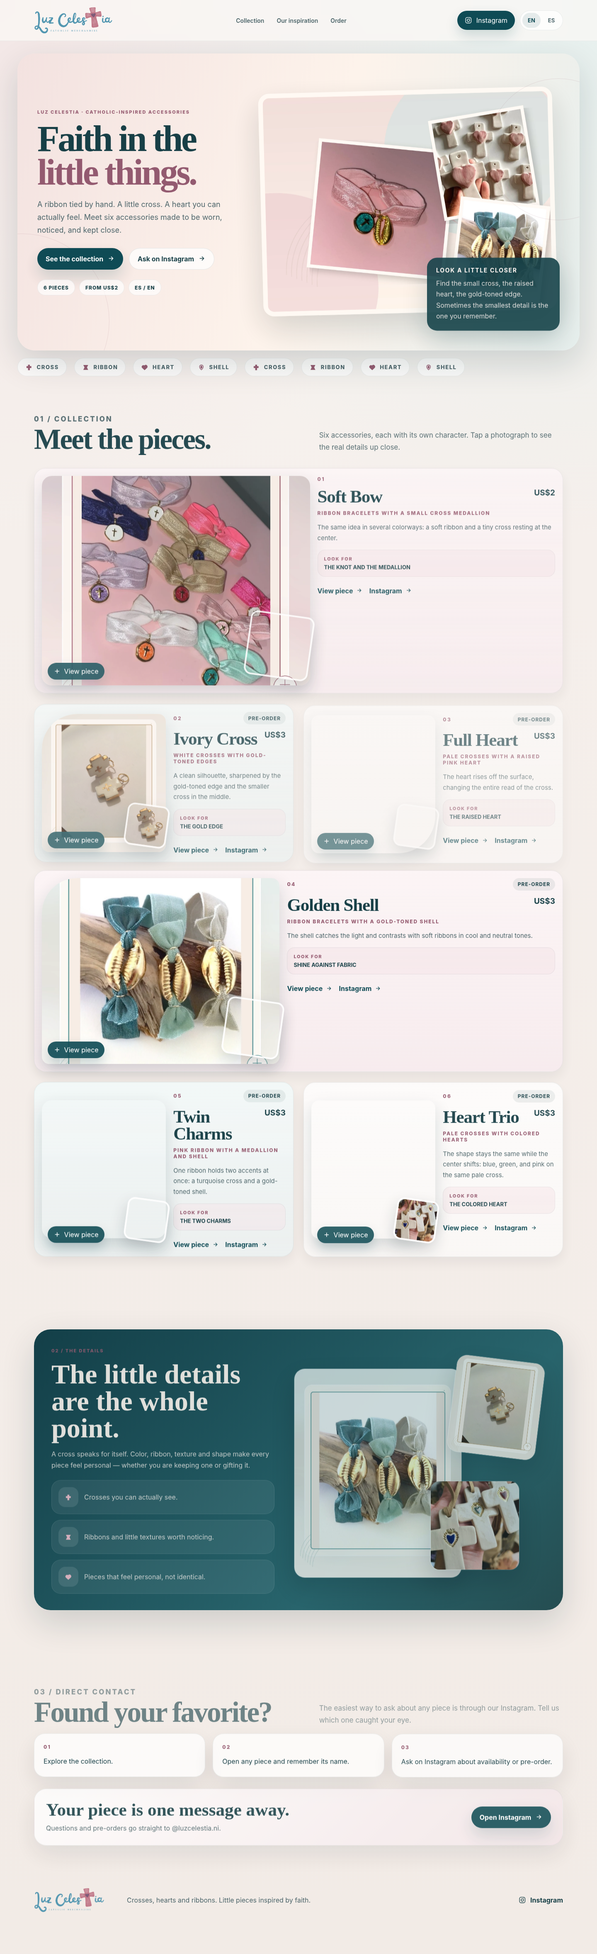
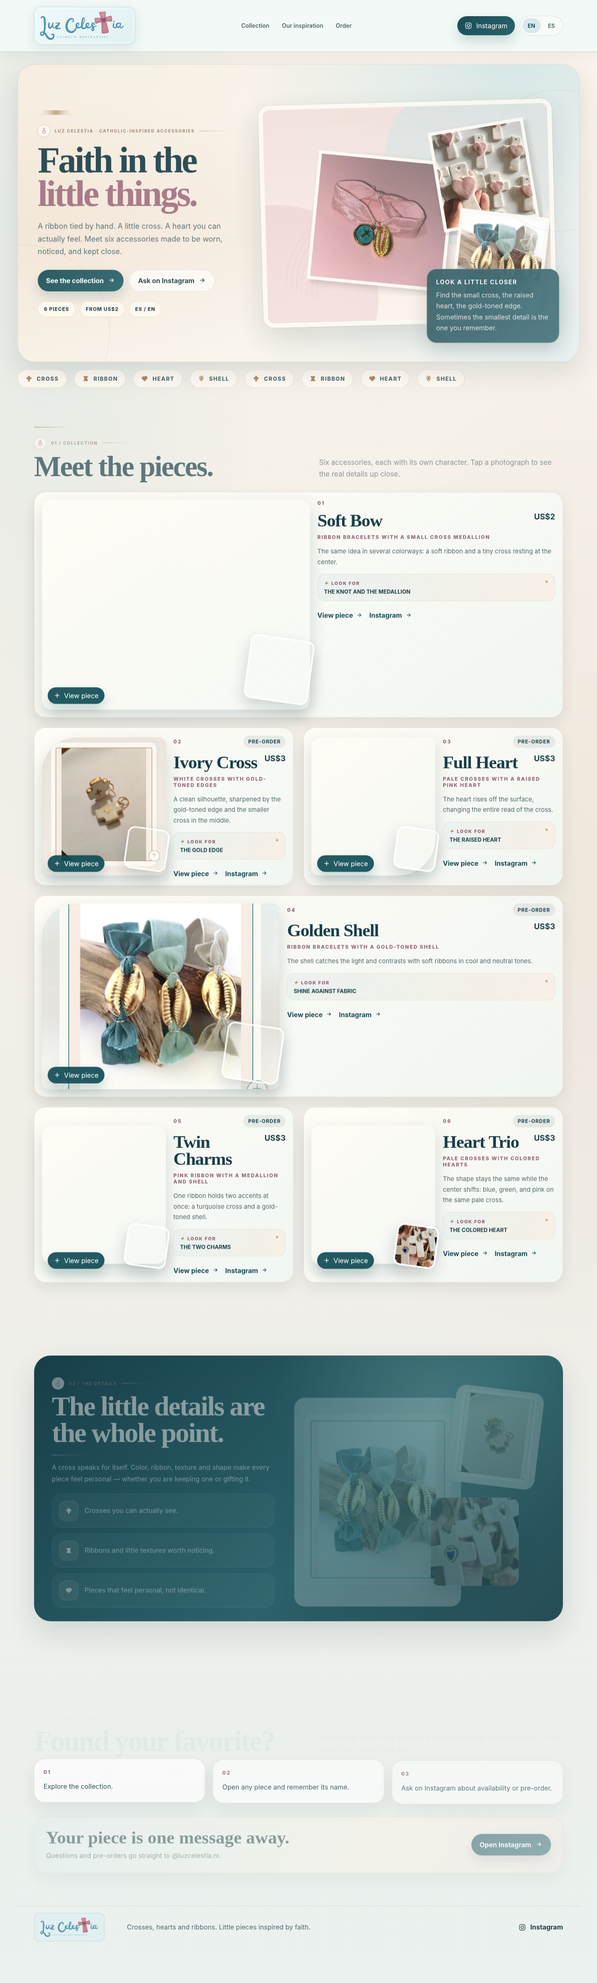
prueba

diff --git a/dist/es/index.html b/dist/es/index.html
@@ -37,7 +37,7 @@
   <section class="hero">
     <div class="hero-grid">
       <div class="hero-copy" data-reveal>
-        <p class="eyebrow">LUZ CELESTIA · ACCESORIOS DE INSPIRACIÓN CATÓLICA</p>
+        <div class="section-kicker"><span class="celestia-signet" aria-hidden="true"><svg viewBox="0 0 24 24" fill="none" stroke="currentColor" stroke-width="1.45" stroke-linecap="round" stroke-linejoin="round"><path d="M12 2v12M8 6h8"/><path d="M12 21s-5.5-3.1-5.5-6.3A3.1 3.1 0 0 1 12 12.9a3.1 3.1 0 0 1 5.5 1.8C17.5 17.9 12 21 12 21Z"/></svg></span><span>LUZ CELESTIA · ACCESORIOS DE INSPIRACIÓN CATÓLICA</span></div>
         <h1><span>La fe también</span><em>está en los detalles.</em></h1>
         <p class="hero-body">Un listón anudado. Una cruz pequeña. Un corazón que se siente al tocarlo. Conocé seis accesorios para llevar cerquita o regalar con intención.</p>
         <div class="hero-buttons">
@@ -74,7 +74,7 @@
   <section class="collection" id="collection">
     <div class="section-head" data-reveal>
       <div>
-        <p class="eyebrow">01 / colección</p>
+        <div class="section-kicker"><span class="celestia-signet" aria-hidden="true"><svg viewBox="0 0 24 24" fill="none" stroke="currentColor" stroke-width="1.45" stroke-linecap="round" stroke-linejoin="round"><path d="M12 2v12M8 6h8"/><path d="M12 21s-5.5-3.1-5.5-6.3A3.1 3.1 0 0 1 12 12.9a3.1 3.1 0 0 1 5.5 1.8C17.5 17.9 12 21 12 21Z"/></svg></span><span>01 / colección</span></div>
         <h2>Conocé las piezas.</h2>
       </div>
       <p>Seis accesorios y seis maneras de expresar algo personal. Tocá cualquier fotografía para ver sus detalles reales de cerca.</p>
@@ -101,7 +101,7 @@
         </div>
         <p class="piece-literal">Pulseras de listón con medallita de cruz</p>
         <p class="piece-desc">Una misma idea en varios colores: listón suave y una cruz pequeña al centro de la caída.</p>
-        <div class="piece-focus"><span>FIJATE EN</span><b>EL NUDO Y LA MEDALLA</b></div>
+        <div class="piece-focus"><span><i class="detail-spark" aria-hidden="true">✦</i>FIJATE EN</span><b>EL NUDO Y LA MEDALLA</b></div>
         <div class="piece-links">
           <button type="button" class="inline-link" data-open="0">Ver pieza <svg viewBox="0 0 24 24" aria-hidden="true"><path d="M5 12h11.17l-4.59 4.59L13 18l7-7-7-7-1.42 1.41L16.17 10H5v2Z" fill="currentColor"/></svg></button>
           <a class="inline-link" href="https://www.instagram.com/luzcelestia.ni/" target="_blank" rel="noopener noreferrer">Instagram <svg viewBox="0 0 24 24" aria-hidden="true"><path d="M5 12h11.17l-4.59 4.59L13 18l7-7-7-7-1.42 1.41L16.17 10H5v2Z" fill="currentColor"/></svg></a>
@@ -129,7 +129,7 @@
         </div>
         <p class="piece-literal">Cruces blancas con borde dorado</p>
         <p class="piece-desc">La silueta es limpia; el borde dorado y la cruz pequeña le dan firmeza.</p>
-        <div class="piece-focus"><span>FIJATE EN</span><b>EL BORDE DORADO</b></div>
+        <div class="piece-focus"><span><i class="detail-spark" aria-hidden="true">✦</i>FIJATE EN</span><b>EL BORDE DORADO</b></div>
         <div class="piece-links">
           <button type="button" class="inline-link" data-open="1">Ver pieza <svg viewBox="0 0 24 24" aria-hidden="true"><path d="M5 12h11.17l-4.59 4.59L13 18l7-7-7-7-1.42 1.41L16.17 10H5v2Z" fill="currentColor"/></svg></button>
           <a class="inline-link" href="https://www.instagram.com/luzcelestia.ni/" target="_blank" rel="noopener noreferrer">Instagram <svg viewBox="0 0 24 24" aria-hidden="true"><path d="M5 12h11.17l-4.59 4.59L13 18l7-7-7-7-1.42 1.41L16.17 10H5v2Z" fill="currentColor"/></svg></a>
@@ -157,7 +157,7 @@
         </div>
         <p class="piece-literal">Cruces claras con corazón rosado en relieve</p>
         <p class="piece-desc">El corazón se levanta de la superficie y cambia por completo la lectura de la cruz.</p>
-        <div class="piece-focus"><span>FIJATE EN</span><b>EL RELIEVE ROSADO</b></div>
+        <div class="piece-focus"><span><i class="detail-spark" aria-hidden="true">✦</i>FIJATE EN</span><b>EL RELIEVE ROSADO</b></div>
         <div class="piece-links">
           <button type="button" class="inline-link" data-open="2">Ver pieza <svg viewBox="0 0 24 24" aria-hidden="true"><path d="M5 12h11.17l-4.59 4.59L13 18l7-7-7-7-1.42 1.41L16.17 10H5v2Z" fill="currentColor"/></svg></button>
           <a class="inline-link" href="https://www.instagram.com/luzcelestia.ni/" target="_blank" rel="noopener noreferrer">Instagram <svg viewBox="0 0 24 24" aria-hidden="true"><path d="M5 12h11.17l-4.59 4.59L13 18l7-7-7-7-1.42 1.41L16.17 10H5v2Z" fill="currentColor"/></svg></a>
@@ -185,7 +185,7 @@
         </div>
         <p class="piece-literal">Pulseras de listón con concha dorada</p>
         <p class="piece-desc">La concha metálica toma la luz y contrasta con listones suaves en tonos fríos y neutros.</p>
-        <div class="piece-focus"><span>FIJATE EN</span><b>BRILLO SOBRE TELA</b></div>
+        <div class="piece-focus"><span><i class="detail-spark" aria-hidden="true">✦</i>FIJATE EN</span><b>BRILLO SOBRE TELA</b></div>
         <div class="piece-links">
           <button type="button" class="inline-link" data-open="3">Ver pieza <svg viewBox="0 0 24 24" aria-hidden="true"><path d="M5 12h11.17l-4.59 4.59L13 18l7-7-7-7-1.42 1.41L16.17 10H5v2Z" fill="currentColor"/></svg></button>
           <a class="inline-link" href="https://www.instagram.com/luzcelestia.ni/" target="_blank" rel="noopener noreferrer">Instagram <svg viewBox="0 0 24 24" aria-hidden="true"><path d="M5 12h11.17l-4.59 4.59L13 18l7-7-7-7-1.42 1.41L16.17 10H5v2Z" fill="currentColor"/></svg></a>
@@ -213,7 +213,7 @@
         </div>
         <p class="piece-literal">Pulsera rosada con medallita y concha</p>
         <p class="piece-desc">Una sola cinta sostiene dos acentos distintos: cruz turquesa y concha dorada.</p>
-        <div class="piece-focus"><span>FIJATE EN</span><b>LOS DOS DIJES</b></div>
+        <div class="piece-focus"><span><i class="detail-spark" aria-hidden="true">✦</i>FIJATE EN</span><b>LOS DOS DIJES</b></div>
         <div class="piece-links">
           <button type="button" class="inline-link" data-open="4">Ver pieza <svg viewBox="0 0 24 24" aria-hidden="true"><path d="M5 12h11.17l-4.59 4.59L13 18l7-7-7-7-1.42 1.41L16.17 10H5v2Z" fill="currentColor"/></svg></button>
           <a class="inline-link" href="https://www.instagram.com/luzcelestia.ni/" target="_blank" rel="noopener noreferrer">Instagram <svg viewBox="0 0 24 24" aria-hidden="true"><path d="M5 12h11.17l-4.59 4.59L13 18l7-7-7-7-1.42 1.41L16.17 10H5v2Z" fill="currentColor"/></svg></a>
@@ -241,7 +241,7 @@
         </div>
         <p class="piece-literal">Cruces claras con corazones de colores</p>
         <p class="piece-desc">La forma se repite, pero cambia el centro: azul, verde y rosado sobre la misma cruz clara.</p>
-        <div class="piece-focus"><span>FIJATE EN</span><b>EL CORAZÓN DE COLOR</b></div>
+        <div class="piece-focus"><span><i class="detail-spark" aria-hidden="true">✦</i>FIJATE EN</span><b>EL CORAZÓN DE COLOR</b></div>
         <div class="piece-links">
           <button type="button" class="inline-link" data-open="5">Ver pieza <svg viewBox="0 0 24 24" aria-hidden="true"><path d="M5 12h11.17l-4.59 4.59L13 18l7-7-7-7-1.42 1.41L16.17 10H5v2Z" fill="currentColor"/></svg></button>
           <a class="inline-link" href="https://www.instagram.com/luzcelestia.ni/" target="_blank" rel="noopener noreferrer">Instagram <svg viewBox="0 0 24 24" aria-hidden="true"><path d="M5 12h11.17l-4.59 4.59L13 18l7-7-7-7-1.42 1.41L16.17 10H5v2Z" fill="currentColor"/></svg></a>
@@ -253,7 +253,7 @@
   <section class="focus-section" id="focus">
     <div class="focus-layout">
       <div class="focus-panel" data-reveal>
-        <p class="eyebrow">02 / LOS DETALLES</p>
+        <div class="section-kicker"><span class="celestia-signet" aria-hidden="true"><svg viewBox="0 0 24 24" fill="none" stroke="currentColor" stroke-width="1.45" stroke-linecap="round" stroke-linejoin="round"><path d="M12 2v12M8 6h8"/><path d="M12 21s-5.5-3.1-5.5-6.3A3.1 3.1 0 0 1 12 12.9a3.1 3.1 0 0 1 5.5 1.8C17.5 17.9 12 21 12 21Z"/></svg></span><span>02 / LOS DETALLES</span></div>
         <h2>Los detalles chiquitos hacen toda la diferencia.</h2>
         <p>La cruz tiene su propio significado. El color, el listón, las texturas y las formas hacen que cada pieza se sienta personal, para llevar o regalar.</p>
         <div class="focus-points">
@@ -273,7 +273,7 @@
   <section class="order" id="order">
     <div class="section-head section-head-order" data-reveal>
       <div>
-        <p class="eyebrow">03 / contacto directo</p>
+        <div class="section-kicker"><span class="celestia-signet" aria-hidden="true"><svg viewBox="0 0 24 24" fill="none" stroke="currentColor" stroke-width="1.45" stroke-linecap="round" stroke-linejoin="round"><path d="M12 2v12M8 6h8"/><path d="M12 21s-5.5-3.1-5.5-6.3A3.1 3.1 0 0 1 12 12.9a3.1 3.1 0 0 1 5.5 1.8C17.5 17.9 12 21 12 21Z"/></svg></span><span>03 / contacto directo</span></div>
         <h2>¿Ya encontraste tu favorita?</h2>
       </div>
       <p>Si alguna pieza te gustó, escribinos por Instagram y contanos cuál. Así de sencillo.</p>

diff --git a/dist/en/index.html b/dist/en/index.html
@@ -37,7 +37,7 @@
   <section class="hero">
     <div class="hero-grid">
       <div class="hero-copy" data-reveal>
-        <p class="eyebrow">LUZ CELESTIA · CATHOLIC-INSPIRED ACCESSORIES</p>
+        <div class="section-kicker"><span class="celestia-signet" aria-hidden="true"><svg viewBox="0 0 24 24" fill="none" stroke="currentColor" stroke-width="1.45" stroke-linecap="round" stroke-linejoin="round"><path d="M12 2v12M8 6h8"/><path d="M12 21s-5.5-3.1-5.5-6.3A3.1 3.1 0 0 1 12 12.9a3.1 3.1 0 0 1 5.5 1.8C17.5 17.9 12 21 12 21Z"/></svg></span><span>LUZ CELESTIA · CATHOLIC-INSPIRED ACCESSORIES</span></div>
         <h1><span>Faith in the</span><em>little things.</em></h1>
         <p class="hero-body">A ribbon tied by hand. A little cross. A heart you can actually feel. Meet six accessories made to be worn, noticed, and kept close.</p>
         <div class="hero-buttons">
@@ -74,7 +74,7 @@
   <section class="collection" id="collection">
     <div class="section-head" data-reveal>
       <div>
-        <p class="eyebrow">01 / collection</p>
+        <div class="section-kicker"><span class="celestia-signet" aria-hidden="true"><svg viewBox="0 0 24 24" fill="none" stroke="currentColor" stroke-width="1.45" stroke-linecap="round" stroke-linejoin="round"><path d="M12 2v12M8 6h8"/><path d="M12 21s-5.5-3.1-5.5-6.3A3.1 3.1 0 0 1 12 12.9a3.1 3.1 0 0 1 5.5 1.8C17.5 17.9 12 21 12 21Z"/></svg></span><span>01 / collection</span></div>
         <h2>Meet the pieces.</h2>
       </div>
       <p>Six accessories, each with its own character. Tap a photograph to see the real details up close.</p>
@@ -101,7 +101,7 @@
         </div>
         <p class="piece-literal">Ribbon bracelets with a small cross medallion</p>
         <p class="piece-desc">The same idea in several colorways: a soft ribbon and a tiny cross resting at the center.</p>
-        <div class="piece-focus"><span>LOOK FOR</span><b>THE KNOT AND THE MEDALLION</b></div>
+        <div class="piece-focus"><span><i class="detail-spark" aria-hidden="true">✦</i>LOOK FOR</span><b>THE KNOT AND THE MEDALLION</b></div>
         <div class="piece-links">
           <button type="button" class="inline-link" data-open="0">View piece <svg viewBox="0 0 24 24" aria-hidden="true"><path d="M5 12h11.17l-4.59 4.59L13 18l7-7-7-7-1.42 1.41L16.17 10H5v2Z" fill="currentColor"/></svg></button>
           <a class="inline-link" href="https://www.instagram.com/luzcelestia.ni/" target="_blank" rel="noopener noreferrer">Instagram <svg viewBox="0 0 24 24" aria-hidden="true"><path d="M5 12h11.17l-4.59 4.59L13 18l7-7-7-7-1.42 1.41L16.17 10H5v2Z" fill="currentColor"/></svg></a>
@@ -129,7 +129,7 @@
         </div>
         <p class="piece-literal">White crosses with gold-toned edges</p>
         <p class="piece-desc">A clean silhouette, sharpened by the gold-toned edge and the smaller cross in the middle.</p>
-        <div class="piece-focus"><span>LOOK FOR</span><b>THE GOLD EDGE</b></div>
+        <div class="piece-focus"><span><i class="detail-spark" aria-hidden="true">✦</i>LOOK FOR</span><b>THE GOLD EDGE</b></div>
         <div class="piece-links">
           <button type="button" class="inline-link" data-open="1">View piece <svg viewBox="0 0 24 24" aria-hidden="true"><path d="M5 12h11.17l-4.59 4.59L13 18l7-7-7-7-1.42 1.41L16.17 10H5v2Z" fill="currentColor"/></svg></button>
           <a class="inline-link" href="https://www.instagram.com/luzcelestia.ni/" target="_blank" rel="noopener noreferrer">Instagram <svg viewBox="0 0 24 24" aria-hidden="true"><path d="M5 12h11.17l-4.59 4.59L13 18l7-7-7-7-1.42 1.41L16.17 10H5v2Z" fill="currentColor"/></svg></a>
@@ -157,7 +157,7 @@
         </div>
         <p class="piece-literal">Pale crosses with a raised pink heart</p>
         <p class="piece-desc">The heart rises off the surface, changing the entire read of the cross.</p>
-        <div class="piece-focus"><span>LOOK FOR</span><b>THE RAISED HEART</b></div>
+        <div class="piece-focus"><span><i class="detail-spark" aria-hidden="true">✦</i>LOOK FOR</span><b>THE RAISED HEART</b></div>
         <div class="piece-links">
           <button type="button" class="inline-link" data-open="2">View piece <svg viewBox="0 0 24 24" aria-hidden="true"><path d="M5 12h11.17l-4.59 4.59L13 18l7-7-7-7-1.42 1.41L16.17 10H5v2Z" fill="currentColor"/></svg></button>
           <a class="inline-link" href="https://www.instagram.com/luzcelestia.ni/" target="_blank" rel="noopener noreferrer">Instagram <svg viewBox="0 0 24 24" aria-hidden="true"><path d="M5 12h11.17l-4.59 4.59L13 18l7-7-7-7-1.42 1.41L16.17 10H5v2Z" fill="currentColor"/></svg></a>
@@ -185,7 +185,7 @@
         </div>
         <p class="piece-literal">Ribbon bracelets with a gold-toned shell</p>
         <p class="piece-desc">The shell catches the light and contrasts with soft ribbons in cool and neutral tones.</p>
-        <div class="piece-focus"><span>LOOK FOR</span><b>SHINE AGAINST FABRIC</b></div>
+        <div class="piece-focus"><span><i class="detail-spark" aria-hidden="true">✦</i>LOOK FOR</span><b>SHINE AGAINST FABRIC</b></div>
         <div class="piece-links">
           <button type="button" class="inline-link" data-open="3">View piece <svg viewBox="0 0 24 24" aria-hidden="true"><path d="M5 12h11.17l-4.59 4.59L13 18l7-7-7-7-1.42 1.41L16.17 10H5v2Z" fill="currentColor"/></svg></button>
           <a class="inline-link" href="https://www.instagram.com/luzcelestia.ni/" target="_blank" rel="noopener noreferrer">Instagram <svg viewBox="0 0 24 24" aria-hidden="true"><path d="M5 12h11.17l-4.59 4.59L13 18l7-7-7-7-1.42 1.41L16.17 10H5v2Z" fill="currentColor"/></svg></a>
@@ -213,7 +213,7 @@
         </div>
         <p class="piece-literal">Pink ribbon with a medallion and shell</p>
         <p class="piece-desc">One ribbon holds two accents at once: a turquoise cross and a gold-toned shell.</p>
-        <div class="piece-focus"><span>LOOK FOR</span><b>THE TWO CHARMS</b></div>
+        <div class="piece-focus"><span><i class="detail-spark" aria-hidden="true">✦</i>LOOK FOR</span><b>THE TWO CHARMS</b></div>
         <div class="piece-links">
           <button type="button" class="inline-link" data-open="4">View piece <svg viewBox="0 0 24 24" aria-hidden="true"><path d="M5 12h11.17l-4.59 4.59L13 18l7-7-7-7-1.42 1.41L16.17 10H5v2Z" fill="currentColor"/></svg></button>
           <a class="inline-link" href="https://www.instagram.com/luzcelestia.ni/" target="_blank" rel="noopener noreferrer">Instagram <svg viewBox="0 0 24 24" aria-hidden="true"><path d="M5 12h11.17l-4.59 4.59L13 18l7-7-7-7-1.42 1.41L16.17 10H5v2Z" fill="currentColor"/></svg></a>
@@ -241,7 +241,7 @@
         </div>
         <p class="piece-literal">Pale crosses with colored hearts</p>
         <p class="piece-desc">The shape stays the same while the center shifts: blue, green, and pink on the same pale cross.</p>
-        <div class="piece-focus"><span>LOOK FOR</span><b>THE COLORED HEART</b></div>
+        <div class="piece-focus"><span><i class="detail-spark" aria-hidden="true">✦</i>LOOK FOR</span><b>THE COLORED HEART</b></div>
         <div class="piece-links">
           <button type="button" class="inline-link" data-open="5">View piece <svg viewBox="0 0 24 24" aria-hidden="true"><path d="M5 12h11.17l-4.59 4.59L13 18l7-7-7-7-1.42 1.41L16.17 10H5v2Z" fill="currentColor"/></svg></button>
           <a class="inline-link" href="https://www.instagram.com/luzcelestia.ni/" target="_blank" rel="noopener noreferrer">Instagram <svg viewBox="0 0 24 24" aria-hidden="true"><path d="M5 12h11.17l-4.59 4.59L13 18l7-7-7-7-1.42 1.41L16.17 10H5v2Z" fill="currentColor"/></svg></a>
@@ -253,7 +253,7 @@
   <section class="focus-section" id="focus">
     <div class="focus-layout">
       <div class="focus-panel" data-reveal>
-        <p class="eyebrow">02 / THE DETAILS</p>
+        <div class="section-kicker"><span class="celestia-signet" aria-hidden="true"><svg viewBox="0 0 24 24" fill="none" stroke="currentColor" stroke-width="1.45" stroke-linecap="round" stroke-linejoin="round"><path d="M12 2v12M8 6h8"/><path d="M12 21s-5.5-3.1-5.5-6.3A3.1 3.1 0 0 1 12 12.9a3.1 3.1 0 0 1 5.5 1.8C17.5 17.9 12 21 12 21Z"/></svg></span><span>02 / THE DETAILS</span></div>
         <h2>The little details are the whole point.</h2>
         <p>A cross speaks for itself. Color, ribbon, texture and shape make every piece feel personal — whether you are keeping one or gifting it.</p>
         <div class="focus-points">
@@ -273,7 +273,7 @@
   <section class="order" id="order">
     <div class="section-head section-head-order" data-reveal>
       <div>
-        <p class="eyebrow">03 / direct contact</p>
+        <div class="section-kicker"><span class="celestia-signet" aria-hidden="true"><svg viewBox="0 0 24 24" fill="none" stroke="currentColor" stroke-width="1.45" stroke-linecap="round" stroke-linejoin="round"><path d="M12 2v12M8 6h8"/><path d="M12 21s-5.5-3.1-5.5-6.3A3.1 3.1 0 0 1 12 12.9a3.1 3.1 0 0 1 5.5 1.8C17.5 17.9 12 21 12 21Z"/></svg></span><span>03 / direct contact</span></div>
         <h2>Found your favorite?</h2>
       </div>
       <p>The easiest way to ask about any piece is through our Instagram. Tell us which one caught your eye.</p>

diff --git a/dist/style.css b/dist/style.css
@@ -363,3 +363,73 @@ dialog::backdrop { background: rgba(11,27,32,.68); backdrop-filter: blur(5px); }
 @media (max-width:640px){.hero-grid{grid-template-columns:minmax(0,1fr)}.hero-note{max-width:none}.hero-body{max-width:100%}.hero-stage{width:100%;min-width:0}.hero-campaign-image{width:100%;transform:none}.hero-badges{gap:7px}.hero-badges span{font-size:10px;padding-inline:10px}.site-footer{padding-bottom:120px}}
 @media(max-width:1180px){.hero-stage{display:block}.hero-campaign-image{display:block;margin:0 auto}.hero-note{position:relative;left:auto;right:auto;bottom:auto;margin:-22px auto 0;width:min(420px,92%);max-width:92%;z-index:2}}
 @media(max-width:640px){.hero-stage{display:block;padding:18px 0 18px}.hero-campaign-image{width:100%;max-width:none;border-width:6px}.hero-note{margin:-10px auto 0;width:94%;max-width:none}.hero-grid{padding-bottom:18px}}
+
+
+/* V12 — Celestia Atelier: refined chromatic language, meaningful identity details */
+:root{
+ --bg:#f3eee6;--surface:rgba(255,252,244,.88);--surface-strong:#fffaf1;
+ --ink:#193e48;--ink-soft:#536c72;--teal:#194d58;--teal-2:#396a73;
+ --rose:#c7a0ad;--rose-deep:#8e6074;--gold:#b58d59;--line:rgba(31,73,80,.13);
+ --shadow:0 18px 45px rgba(26,56,61,.095);--shadow-strong:0 28px 70px rgba(26,56,61,.14);
+}
+body{background:radial-gradient(ellipse at 8% 11%,rgba(215,229,228,.58) 0,transparent 28%),radial-gradient(ellipse at 94% 45%,rgba(217,196,167,.2) 0,transparent 33%),linear-gradient(180deg,#f9f3e9 0%,#f1eee8 58%,#eaf1ee 100%);}
+.site-header{background:rgba(241,249,247,.94);border-bottom:1px solid rgba(45,103,114,.2);box-shadow:0 7px 28px rgba(26,64,75,.055)}
+.brand{display:inline-flex;align-items:center;justify-content:flex-start;padding:9px 18px 9px 12px;border:1px solid rgba(77,128,138,.19);border-radius:18px;background:linear-gradient(135deg,#eff9fa,#e0f1f1);box-shadow:0 8px 26px rgba(31,80,93,.1);position:relative;transition:transform .35s ease,box-shadow .35s ease}
+.brand::before{content:'';position:absolute;inset:4px;border:1px solid rgba(255,255,255,.82);border-radius:13px;pointer-events:none}
+.brand img{width:205px;max-height:78px;object-fit:contain;filter:drop-shadow(0 2px 1px rgba(255,255,255,.75))}
+.brand:hover{transform:translateY(-2px);box-shadow:0 14px 32px rgba(31,80,93,.16)}
+.header-wrap{grid-template-columns:245px 1fr auto}
+.hero-grid{background:radial-gradient(ellipse at 87% 0%,rgba(208,229,230,.8),transparent 38%),radial-gradient(ellipse at 0% 55%,rgba(236,217,196,.40),transparent 56%),linear-gradient(120deg,#f6eee1 0%,#f9f5ed 55%,#e7eff0 100%);border:1px solid rgba(179,149,97,.24);box-shadow:0 24px 65px rgba(37,72,75,.13)}
+.hero-grid::before,.hero-grid::after{border-color:rgba(183,150,102,.2)}
+.hero-copy::before{content:'';display:block;width:88px;height:9px;margin-bottom:24px;background:linear-gradient(90deg,transparent,#bd9e72,transparent);mask-image:linear-gradient(90deg,transparent,black,transparent);border-top:1px solid rgba(157,123,82,.5);border-bottom:1px solid rgba(157,123,82,.32)}
+.hero h1 em{color:#a27182}
+.hero-campaign-image{border-color:#fdfbf5;box-shadow:0 26px 70px rgba(36,70,77,.19),0 0 0 1px rgba(189,150,103,.32)}
+.hero-note{background:linear-gradient(125deg,rgba(25,73,83,.96),rgba(41,94,104,.93));border:1px solid rgba(227,204,156,.45);box-shadow:0 16px 45px rgba(20,54,65,.22)}
+.eyebrow,.piece-number,.piece-literal,.dialog-literal{color:#93697b}
+.hero-badges span,.hero-strip span{background:rgba(255,251,243,.88);border:1px solid rgba(186,146,94,.25)}
+.hero-strip span svg{color:#b18b65}
+.btn,.header-ig,.floating-ig{transition:transform .3s cubic-bezier(.2,.8,.2,1),box-shadow .3s ease,background-color .3s ease,filter .3s ease}
+.btn-primary,.header-ig,.floating-ig{background:linear-gradient(135deg,#194d58,#28636b);box-shadow:0 13px 29px rgba(25,77,88,.2)}
+.btn:hover,.header-ig:hover,.floating-ig:hover{transform:translateY(-3px);box-shadow:0 18px 34px rgba(25,77,88,.23);filter:saturate(1.07)}
+.btn:active,.header-ig:active,.floating-ig:active{transform:translateY(0) scale(.98)}
+.btn svg,.inline-link svg{transition:transform .32s ease}
+.btn:hover svg,.inline-link:hover svg{transform:translateX(4px)}
+.lang-switch{background:#f8fbf8;border-color:rgba(48,99,106,.16)}
+.lang-switch a[aria-current=page]{background:#d7eaeb}
+.section-head h2,.focus-panel h2,.order h2{letter-spacing:-.035em}
+.section-head::before{content:'';display:block;grid-column:1/-1;width:88px;height:2px;background:linear-gradient(90deg,#b89160,transparent);margin-bottom:2px}
+.piece-card{background:linear-gradient(145deg,rgba(255,252,246,.98),rgba(240,248,245,.82));border:1px solid rgba(180,146,101,.2);box-shadow:0 14px 35px rgba(27,49,53,.085);transition:border-color .35s ease,box-shadow .4s ease,transform .38s cubic-bezier(.2,.8,.2,1)}
+.piece-card:hover{border-color:rgba(180,146,101,.55);box-shadow:0 25px 45px rgba(23,61,68,.14)}
+.piece-visual{position:relative}
+.piece-visual::after{content:'';position:absolute;inset:10px;border:1px solid rgba(255,252,240,.6);border-radius:inherit;pointer-events:none;transition:inset .4s ease,opacity .4s ease;opacity:.85}
+.piece-card:hover .piece-visual::after{inset:17px;opacity:.5}
+.piece-figure img{transition:transform .8s cubic-bezier(.18,.67,.25,1),filter .6s ease}
+.piece-visual:hover .piece-figure img{transform:scale(1.045);filter:saturate(1.045)}
+.piece-focus,.dialog-focus{background:linear-gradient(110deg,rgba(231,240,238,.8),rgba(249,237,225,.72));border:1px solid rgba(176,148,108,.2)}
+.piece-focus::before,.dialog-focus::before{content:'✦';position:absolute;right:14px;top:10px;color:#b58d59;font-size:13px;opacity:.8}
+.piece-focus,.dialog-focus{position:relative}
+.focus-layout{background:radial-gradient(circle at 75% 18%,rgba(135,175,171,.28),transparent 35%),linear-gradient(135deg,#173e49 0%,#2b626b 60%,#274c55 100%);border:1px solid rgba(187,158,116,.35)}
+.focus-panel .eyebrow{color:#e5c8a5}
+.focus-panel h2::after{content:'';display:block;margin-top:20px;width:88px;height:1px;background:linear-gradient(90deg,#dbc4a0,transparent)}
+.focus-points article span{color:#f5e4cb;background:rgba(238,223,192,.14);border:1px solid rgba(238,223,192,.26)}
+.cta-box{background:linear-gradient(115deg,#e3eff0,#fcf4e8 65%,#f5e9e8);border:1px solid rgba(190,151,100,.25);box-shadow:var(--shadow)}
+.steps article{border:1px solid rgba(183,147,105,.26)}
+.site-footer{border-top:1px solid rgba(179,148,105,.27)}
+.site-footer img{background:#e1eff0;border:1px solid rgba(69,126,134,.19);padding:9px 13px;border-radius:12px;min-width:142px}
+.dialog-shell{background:linear-gradient(120deg,#fdf9f1,#e9f0ef)}
+.dialog-switches button[aria-pressed=true]{background:#194d58}
+:focus-visible{outline:3px solid #ae8359;outline-offset:3px}
+/* Small, original signature ornament inspired by the cross-and-heart mark */
+.celestia-signet{display:inline-flex;align-items:center;justify-content:center;position:relative;flex:0 0 auto;width:30px;height:30px;border:1px solid rgba(183,145,93,.4);border-radius:50%;background:rgba(255,253,246,.8);color:#a77989;box-shadow:0 3px 13px rgba(31,72,79,.05)}
+.celestia-signet svg{height:18px;width:18px;transition:transform .45s cubic-bezier(.2,.8,.2,1)}
+.celestia-signet:hover svg{transform:rotate(-9deg) scale(1.13)}
+.section-kicker{display:flex;align-items:center;gap:11px;margin:0 0 8px;font-size:10px;font-weight:750;letter-spacing:.19em;text-transform:uppercase;color:#987a63}
+.section-kicker::after{content:'';width:75px;height:1px;background:linear-gradient(90deg,#bd9b70,transparent)}
+.hero .section-kicker{margin-bottom:16px}
+.detail-spark{display:inline-block;margin-right:6px;color:#b18b65;font-size:12px;transform-origin:center;transition:transform .32s ease}
+.piece-card:hover .detail-spark{transform:rotate(40deg)}
+@keyframes celestialFloat{0%,100%{transform:translateY(0)}50%{transform:translateY(-4px)}}
+.hero .celestia-signet{animation:celestialFloat 5s ease-in-out infinite}
+@media(max-width:920px){.header-wrap{grid-template-columns:minmax(0,1fr) auto}.brand img{width:170px}.brand{padding:7px 13px 7px 8px}}
+@media(max-width:640px){.brand img{width:145px}.brand{border-radius:13px}.header-wrap{gap:10px}.hero-grid{background:linear-gradient(165deg,#f9f0e6 0%,#f8f6ef 43%,#e6f0ef 100%)}.section-head::before{width:64px}.piece-card{box-shadow:0 12px 30px rgba(23,61,68,.075)}}
+@media(prefers-reduced-motion:reduce){.hero .celestia-signet{animation:none}.piece-card,.btn,.brand,.piece-figure img{transition:none!important}}

diff --git a/src/style.css b/src/style.css
@@ -363,3 +363,73 @@ dialog::backdrop { background: rgba(11,27,32,.68); backdrop-filter: blur(5px); }
 @media (max-width:640px){.hero-grid{grid-template-columns:minmax(0,1fr)}.hero-note{max-width:none}.hero-body{max-width:100%}.hero-stage{width:100%;min-width:0}.hero-campaign-image{width:100%;transform:none}.hero-badges{gap:7px}.hero-badges span{font-size:10px;padding-inline:10px}.site-footer{padding-bottom:120px}}
 @media(max-width:1180px){.hero-stage{display:block}.hero-campaign-image{display:block;margin:0 auto}.hero-note{position:relative;left:auto;right:auto;bottom:auto;margin:-22px auto 0;width:min(420px,92%);max-width:92%;z-index:2}}
 @media(max-width:640px){.hero-stage{display:block;padding:18px 0 18px}.hero-campaign-image{width:100%;max-width:none;border-width:6px}.hero-note{margin:-10px auto 0;width:94%;max-width:none}.hero-grid{padding-bottom:18px}}
+
+
+/* V12 — Celestia Atelier: refined chromatic language, meaningful identity details */
+:root{
+ --bg:#f3eee6;--surface:rgba(255,252,244,.88);--surface-strong:#fffaf1;
+ --ink:#193e48;--ink-soft:#536c72;--teal:#194d58;--teal-2:#396a73;
+ --rose:#c7a0ad;--rose-deep:#8e6074;--gold:#b58d59;--line:rgba(31,73,80,.13);
+ --shadow:0 18px 45px rgba(26,56,61,.095);--shadow-strong:0 28px 70px rgba(26,56,61,.14);
+}
+body{background:radial-gradient(ellipse at 8% 11%,rgba(215,229,228,.58) 0,transparent 28%),radial-gradient(ellipse at 94% 45%,rgba(217,196,167,.2) 0,transparent 33%),linear-gradient(180deg,#f9f3e9 0%,#f1eee8 58%,#eaf1ee 100%);}
+.site-header{background:rgba(241,249,247,.94);border-bottom:1px solid rgba(45,103,114,.2);box-shadow:0 7px 28px rgba(26,64,75,.055)}
+.brand{display:inline-flex;align-items:center;justify-content:flex-start;padding:9px 18px 9px 12px;border:1px solid rgba(77,128,138,.19);border-radius:18px;background:linear-gradient(135deg,#eff9fa,#e0f1f1);box-shadow:0 8px 26px rgba(31,80,93,.1);position:relative;transition:transform .35s ease,box-shadow .35s ease}
+.brand::before{content:'';position:absolute;inset:4px;border:1px solid rgba(255,255,255,.82);border-radius:13px;pointer-events:none}
+.brand img{width:205px;max-height:78px;object-fit:contain;filter:drop-shadow(0 2px 1px rgba(255,255,255,.75))}
+.brand:hover{transform:translateY(-2px);box-shadow:0 14px 32px rgba(31,80,93,.16)}
+.header-wrap{grid-template-columns:245px 1fr auto}
+.hero-grid{background:radial-gradient(ellipse at 87% 0%,rgba(208,229,230,.8),transparent 38%),radial-gradient(ellipse at 0% 55%,rgba(236,217,196,.40),transparent 56%),linear-gradient(120deg,#f6eee1 0%,#f9f5ed 55%,#e7eff0 100%);border:1px solid rgba(179,149,97,.24);box-shadow:0 24px 65px rgba(37,72,75,.13)}
+.hero-grid::before,.hero-grid::after{border-color:rgba(183,150,102,.2)}
+.hero-copy::before{content:'';display:block;width:88px;height:9px;margin-bottom:24px;background:linear-gradient(90deg,transparent,#bd9e72,transparent);mask-image:linear-gradient(90deg,transparent,black,transparent);border-top:1px solid rgba(157,123,82,.5);border-bottom:1px solid rgba(157,123,82,.32)}
+.hero h1 em{color:#a27182}
+.hero-campaign-image{border-color:#fdfbf5;box-shadow:0 26px 70px rgba(36,70,77,.19),0 0 0 1px rgba(189,150,103,.32)}
+.hero-note{background:linear-gradient(125deg,rgba(25,73,83,.96),rgba(41,94,104,.93));border:1px solid rgba(227,204,156,.45);box-shadow:0 16px 45px rgba(20,54,65,.22)}
+.eyebrow,.piece-number,.piece-literal,.dialog-literal{color:#93697b}
+.hero-badges span,.hero-strip span{background:rgba(255,251,243,.88);border:1px solid rgba(186,146,94,.25)}
+.hero-strip span svg{color:#b18b65}
+.btn,.header-ig,.floating-ig{transition:transform .3s cubic-bezier(.2,.8,.2,1),box-shadow .3s ease,background-color .3s ease,filter .3s ease}
+.btn-primary,.header-ig,.floating-ig{background:linear-gradient(135deg,#194d58,#28636b);box-shadow:0 13px 29px rgba(25,77,88,.2)}
+.btn:hover,.header-ig:hover,.floating-ig:hover{transform:translateY(-3px);box-shadow:0 18px 34px rgba(25,77,88,.23);filter:saturate(1.07)}
+.btn:active,.header-ig:active,.floating-ig:active{transform:translateY(0) scale(.98)}
+.btn svg,.inline-link svg{transition:transform .32s ease}
+.btn:hover svg,.inline-link:hover svg{transform:translateX(4px)}
+.lang-switch{background:#f8fbf8;border-color:rgba(48,99,106,.16)}
+.lang-switch a[aria-current=page]{background:#d7eaeb}
+.section-head h2,.focus-panel h2,.order h2{letter-spacing:-.035em}
+.section-head::before{content:'';display:block;grid-column:1/-1;width:88px;height:2px;background:linear-gradient(90deg,#b89160,transparent);margin-bottom:2px}
+.piece-card{background:linear-gradient(145deg,rgba(255,252,246,.98),rgba(240,248,245,.82));border:1px solid rgba(180,146,101,.2);box-shadow:0 14px 35px rgba(27,49,53,.085);transition:border-color .35s ease,box-shadow .4s ease,transform .38s cubic-bezier(.2,.8,.2,1)}
+.piece-card:hover{border-color:rgba(180,146,101,.55);box-shadow:0 25px 45px rgba(23,61,68,.14)}
+.piece-visual{position:relative}
+.piece-visual::after{content:'';position:absolute;inset:10px;border:1px solid rgba(255,252,240,.6);border-radius:inherit;pointer-events:none;transition:inset .4s ease,opacity .4s ease;opacity:.85}
+.piece-card:hover .piece-visual::after{inset:17px;opacity:.5}
+.piece-figure img{transition:transform .8s cubic-bezier(.18,.67,.25,1),filter .6s ease}
+.piece-visual:hover .piece-figure img{transform:scale(1.045);filter:saturate(1.045)}
+.piece-focus,.dialog-focus{background:linear-gradient(110deg,rgba(231,240,238,.8),rgba(249,237,225,.72));border:1px solid rgba(176,148,108,.2)}
+.piece-focus::before,.dialog-focus::before{content:'✦';position:absolute;right:14px;top:10px;color:#b58d59;font-size:13px;opacity:.8}
+.piece-focus,.dialog-focus{position:relative}
+.focus-layout{background:radial-gradient(circle at 75% 18%,rgba(135,175,171,.28),transparent 35%),linear-gradient(135deg,#173e49 0%,#2b626b 60%,#274c55 100%);border:1px solid rgba(187,158,116,.35)}
+.focus-panel .eyebrow{color:#e5c8a5}
+.focus-panel h2::after{content:'';display:block;margin-top:20px;width:88px;height:1px;background:linear-gradient(90deg,#dbc4a0,transparent)}
+.focus-points article span{color:#f5e4cb;background:rgba(238,223,192,.14);border:1px solid rgba(238,223,192,.26)}
+.cta-box{background:linear-gradient(115deg,#e3eff0,#fcf4e8 65%,#f5e9e8);border:1px solid rgba(190,151,100,.25);box-shadow:var(--shadow)}
+.steps article{border:1px solid rgba(183,147,105,.26)}
+.site-footer{border-top:1px solid rgba(179,148,105,.27)}
+.site-footer img{background:#e1eff0;border:1px solid rgba(69,126,134,.19);padding:9px 13px;border-radius:12px;min-width:142px}
+.dialog-shell{background:linear-gradient(120deg,#fdf9f1,#e9f0ef)}
+.dialog-switches button[aria-pressed=true]{background:#194d58}
+:focus-visible{outline:3px solid #ae8359;outline-offset:3px}
+/* Small, original signature ornament inspired by the cross-and-heart mark */
+.celestia-signet{display:inline-flex;align-items:center;justify-content:center;position:relative;flex:0 0 auto;width:30px;height:30px;border:1px solid rgba(183,145,93,.4);border-radius:50%;background:rgba(255,253,246,.8);color:#a77989;box-shadow:0 3px 13px rgba(31,72,79,.05)}
+.celestia-signet svg{height:18px;width:18px;transition:transform .45s cubic-bezier(.2,.8,.2,1)}
+.celestia-signet:hover svg{transform:rotate(-9deg) scale(1.13)}
+.section-kicker{display:flex;align-items:center;gap:11px;margin:0 0 8px;font-size:10px;font-weight:750;letter-spacing:.19em;text-transform:uppercase;color:#987a63}
+.section-kicker::after{content:'';width:75px;height:1px;background:linear-gradient(90deg,#bd9b70,transparent)}
+.hero .section-kicker{margin-bottom:16px}
+.detail-spark{display:inline-block;margin-right:6px;color:#b18b65;font-size:12px;transform-origin:center;transition:transform .32s ease}
+.piece-card:hover .detail-spark{transform:rotate(40deg)}
+@keyframes celestialFloat{0%,100%{transform:translateY(0)}50%{transform:translateY(-4px)}}
+.hero .celestia-signet{animation:celestialFloat 5s ease-in-out infinite}
+@media(max-width:920px){.header-wrap{grid-template-columns:minmax(0,1fr) auto}.brand img{width:170px}.brand{padding:7px 13px 7px 8px}}
+@media(max-width:640px){.brand img{width:145px}.brand{border-radius:13px}.header-wrap{gap:10px}.hero-grid{background:linear-gradient(165deg,#f9f0e6 0%,#f8f6ef 43%,#e6f0ef 100%)}.section-head::before{width:64px}.piece-card{box-shadow:0 12px 30px rgba(23,61,68,.075)}}
+@media(prefers-reduced-motion:reduce){.hero .celestia-signet{animation:none}.piece-card,.btn,.brand,.piece-figure img{transition:none!important}}

diff --git a/dist/app.js b/dist/app.js
@@ -104,7 +104,7 @@ if (hero && floating && 'IntersectionObserver' in window) {
   observer.observe(hero);
 }
 
-if (!reduceMotion) {
+if (!reduceMotion && window.matchMedia('(hover: hover) and (pointer: fine)').matches) {
   document.querySelectorAll('[data-tilt]').forEach((card) => {
     card.addEventListener('pointermove', (event) => {
       const rect = card.getBoundingClientRect();

diff --git a/src/app.js b/src/app.js
@@ -104,7 +104,7 @@ if (hero && floating && 'IntersectionObserver' in window) {
   observer.observe(hero);
 }
 
-if (!reduceMotion) {
+if (!reduceMotion && window.matchMedia('(hover: hover) and (pointer: fine)').matches) {
   document.querySelectorAll('[data-tilt]').forEach((card) => {
     card.addEventListener('pointermove', (event) => {
       const rect = card.getBoundingClientRect();

diff --git a/README.md b/README.md
@@ -1,29 +1,27 @@
-# Luz Celestia — V11 boutique editorial
+# Luz Celestia — V12 / Celestia Atelier
 
-Sitio estático, bilingüe y preparado para Vercel. Exactamente seis piezas reales. Precios originales: US$2 para la pulsera de listón con medalla y US$3 para las otras cinco referencias, en modalidad preorden. Instagram es el único canal comercial.
+Evolución cromática y de interacción basada en la V11, preservando su composición y los seis productos.
 
-## Ejecutar
+## Novedades
+- Fondo marfil cálido y superficies celestes, con azul petróleo y detalles champagne.
+- Logotipo oficial reforzado sobre una placa celeste de contraste.
+- Signo SVG original inspirado en cruz y corazón, usado como marcador editorial.
+- Tratamiento de superficies, fotografías, botones, botones de idioma y modales.
+- Animaciones de entrada y hover discretas; respeta reducción de movimiento.
+- Se conserva todo el contenido de los seis productos, modalidades y precios reales.
 
-Necesitás Node.js 20 o superior.
+## Desarrollo y comprobación
 
-```
+```bash
 npm run build
 npm test
 npm run preview
 ```
 
-Luego visitá `http://127.0.0.1:4321/`. El inicio abre inglés por defecto; el selector ES/EN guarda la preferencia elegida. La carpeta compilada es `dist/`.
+## Vercel
 
-## Publicar en el Vercel existente
+Se incluye `vercel.json`. Branch `prueba` para previsualizar sin tocar `main`.
+Copiá el CONTENIDO de esta carpeta dentro del repositorio de la rama `prueba`, reemplazando los archivos existentes.
+Commit y Push en GitHub Desktop; Vercel creará un Preview Deployment si está habilitado.
 
-Subí esta carpeta al repositorio GitHub ya conectado al proyecto Vercel. Se utiliza `vercel.json`: build `npm run build`, output `dist`. No hay que crear una base de datos, añadir secretos ni registrar servicios externos. Aprobá el despliegue antes de reemplazar la versión pública.
-
-## Recursos visuales
-
-`assets/productos/originales/` conserva las fotografías reales. `assets/productos/campaign-v10/` contiene seis composiciones nuevas y una portada construidas exclusivamente con esas fotos reales. No son ángulos fotográficos nuevos ni imágenes de piezas inventadas. Se incluye `scripts/create_campaign_v10.py` para regenerarlas.
-
-Los archivos `PREVIEW_en_1440.png`, `PREVIEW_en_390.png` y `PREVIEW_es_390.png` son capturas locales de verificación. No sustituyen revisar la web en la URL pública después del despliegue.
-
-## Límites respetados
-
-No hay carrito, pagos, login, formulario, backend ni base de datos. Ningún vínculo comercial distinto a `https://www.instagram.com/luzcelestia.ni/`.
+Framework `Other`, build `npm run build`, output `dist`. Sin backend ni variables secretas.
